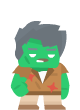
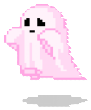
ADD MULTIPLE ZOMEBIE SPAWN OVT mode and  UPDATE image size

diff --git a/ass12.py b/ass12.py
@@ -2,6 +2,7 @@ import pygame
 import random
 from collections import namedtuple
 import time
+import math
 
 pygame.init()
 font = pygame.font.Font('arial.ttf', 25)
@@ -19,12 +20,46 @@ hit.set_volume(0.3)
 BLOCK_SIZE = 20
 SPEED = 20
 last_count = pygame.time.get_ticks()
+
 zombie_image = pygame.image.load('zombie_stand.png')
+pygame.transform.scale(zombie_image, (20,20))
 zombie_rect = zombie_image.get_rect()
+
 target = pygame.image.load('target.png')
-pygame.transform.scale(target, (10, 10))
-pygame.Surface.set_colorkey(target, [255,255,255])
+pygame.transform.scale(target, (5, 5))
+pygame.Surface.set_colorkey(target, [255, 255, 255])
 print(target)
+
+class Zombie:
+    def __init__(self, screen_width, screen_height):
+        self.image = zombie_image
+        self.rect = self.image.get_rect()
+        self.screen_width = screen_width
+        self.screen_height = screen_height
+        self.reset()
+
+    def reset(self):
+        self.alive = True
+        self.rect.x = random.randint(0, self.screen_width - self.rect.width)
+        self.rect.y = random.randint(0, self.screen_height - self.rect.height)
+        self.target_corner = random.choice([(0, 0), (self.screen_width, 0), (0, self.screen_height),
+                                            (self.screen_width, self.screen_height)])
+
+    def move(self, speed):
+        if self.alive:
+            angle = math.atan2(self.target_corner[1] - self.rect.centery, self.target_corner[0] - self.rect.centerx)
+            dx = speed * math.cos(angle)
+            dy = speed * math.sin(angle)
+            self.rect.x += dx
+            self.rect.y += dy
+
+            if (
+                (dx > 0 and self.rect.x > self.target_corner[0])
+                or (dx < 0 and self.rect.x < self.target_corner[0])
+                or (dy > 0 and self.rect.y > self.target_corner[1])
+                or (dy < 0 and self.rect.y < self.target_corner[1])
+            ):
+                self.reset()
 
 class SnakeGame:
     def __init__(self, w=640, h=480):
@@ -37,17 +72,16 @@ class SnakeGame:
         self.gameover = False
         self.starter = False
         self.zombies = []
-        self.zombie_speed = 8
-        self.zombie_direction = random.choice(['up', 'down', 'left', 'right'])
+        self.zombie_speed = 5
         self.hit = 0
         self.miss = 0
-        self.zombie = None
         self.click = False
         self.click_Pos = (-1, -1)
         self.game_time = 60
         self.starter_time = 3
+        self.spawn_interval = 2000  # Spawn a new zombie every 5 seconds
+        self.last_spawn_time = pygame.time.get_ticks()
         self._load_resources()
-        self._place_zombie()
 
     def _load_resources(self):
         self.background_image = pygame.image.load('grayard.png')
@@ -56,17 +90,20 @@ class SnakeGame:
         img = font.render(text, True, text_col)
         self.display.blit(img, (x, y))
 
-    def ClickZombie(self, clickable_area):
-        if clickable_area.collidepoint(self.click_Pos):
-            hit.play()
-            return True
+    def ClickZombie(self, zombies):
+        for zombie in zombies:
+            if zombie.alive and zombie.rect.collidepoint(self.click_Pos):
+                hit.play()
+                zombie.alive = False
+                return True
+        return False
 
     def _place_zombie(self):
-        x = random.randint(0, (self.w - zombie_rect.width) // zombie_rect.width) * zombie_rect.width
-        y = random.randint(0, (self.h - zombie_rect.height) // zombie_rect.height) * zombie_rect.height
-        self.zombie = pygame.Rect(x - zombie_rect.width / 2, y - zombie_rect.height / 2,
-                                   zombie_rect.width, zombie_rect.height)
-        self.zombies.append(self.zombie)
+        now = pygame.time.get_ticks()
+        if now - self.last_spawn_time >= self.spawn_interval:
+            new_zombie = Zombie(self.w, self.h)
+            self.zombies.append(new_zombie)
+            self.last_spawn_time = now
 
     def countdown(self):
         global last_count
@@ -89,41 +126,26 @@ class SnakeGame:
                         pygame.mixer.music.play(-1)
                 if event.type == pygame.MOUSEBUTTONDOWN:
                     self.click = True
+
             if self.starter_time == 0:
-                halloween.play(loops=-1,maxtime=1000*(self.game_time-1))
+                halloween.play(loops=-1, maxtime=1000 * (self.game_time - 1))
+
             if self.starter:
                 if self.game_time > 0:
                     pygame.mouse.set_visible(False)
                     self.mouse_position = pygame.mouse.get_pos()
+                    self._place_zombie()
+
                     for zombie in self.zombies:
-                        if self.zombie_direction == 'up':
-                            zombie.y -= self.zombie_speed
-                        elif self.zombie_direction == 'down':
-                            zombie.y += self.zombie_speed
-                        elif self.zombie_direction == 'left':
-                            zombie.x -= self.zombie_speed
-                        elif self.zombie_direction == 'right':
-                            zombie.x += self.zombie_speed
-
-                    if random.random() < 0.02:
-                        self.zombie_direction = random.choice(['up', 'down', 'left', 'right'])
-
-                    if self.zombie.x + BLOCK_SIZE < 0 or self.zombie.x > self.w or \
-                       self.zombie.y + BLOCK_SIZE < 0 or self.zombie.y > self.h:
-                        print("Zombie went out of bounds!")
-                        self._place_zombie()
+                        zombie.move(self.zombie_speed)
 
                     if self.click:
                         self.click_Pos = pygame.mouse.get_pos()
-                        clickable_area = self._update_ui()
-                        if self.ClickZombie(clickable_area):
-                            print("Zombie clicked!")
-                            self.hit += 1
-                            self._place_zombie()
-                        else:
+                        if not self.ClickZombie(self.zombies):
                             print("Missed zombie!")
                             self.miss += 1
-                            self._place_zombie()
+                        else:
+                            self.hit +=1
                         self.click = False
 
                 else:
@@ -139,23 +161,21 @@ class SnakeGame:
         self.display.blit(self.background_image, (0, 0))
         self.starter_time -= 1
         if not self.starter:
-            self.draw_text("Game starts in " + str(self.starter_time), font, WHITE, int(self.w / 2 - 100), int(self.h / 2))
+            self.draw_text("Game starts in " + str(self.starter_time), font, WHITE, int(self.w / 2 - 100),
+                           int(self.h / 2))
             pygame.display.flip()
             time.sleep(1)
             if self.starter_time == 0:
                 self.starter = True
         else:
-            if not self.gameover: 
-                zombie_rect.center = (self.zombie.x, self.zombie.y)
-                self.display.blit(zombie_image, zombie_rect)
-                clickable_area = pygame.Rect(self.zombie.x - zombie_rect.width / 2, self.zombie.y - zombie_rect.height / 2,
-                                             zombie_rect.width, zombie_rect.height)
-
+            if not self.gameover:
+                for zombie in self.zombies:
+                    if zombie.alive:
+                        self.display.blit(zombie.image, zombie.rect)
                 self.draw_text("Score: " + str(self.hit) + '-' + str(self.miss), font, WHITE, 0, 0)
                 self.draw_text("Time: " + str(self.game_time), font, WHITE, self.w - 100, 0)
-                self.display.blit(target,(self.mouse_position[0]-40,self.mouse_position[1]-40))
+                self.display.blit(target, (self.mouse_position[0] - 40, self.mouse_position[1] - 40))
                 pygame.display.flip()
-                return clickable_area
             else:
                 self.draw_text("GAME OVER!", font, WHITE, int(self.w / 2 - 75), int(self.h / 2))
                 pygame.display.flip()
@@ -163,5 +183,5 @@ class SnakeGame:
 
 if __name__ == '__main__':
     game = SnakeGame()
-    game_over, score = game.play_step()
+    game.play_step()
     pygame.quit()

diff --git a/tempCodeRunnerFile.py b/tempCodeRunnerFile.py
@@ -1,0 +1,1 @@
+pygame.Surface.set_colorkey(target, [255,255,255])
